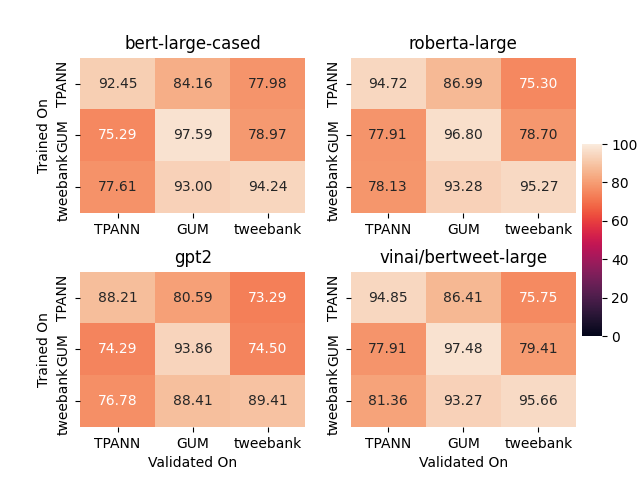
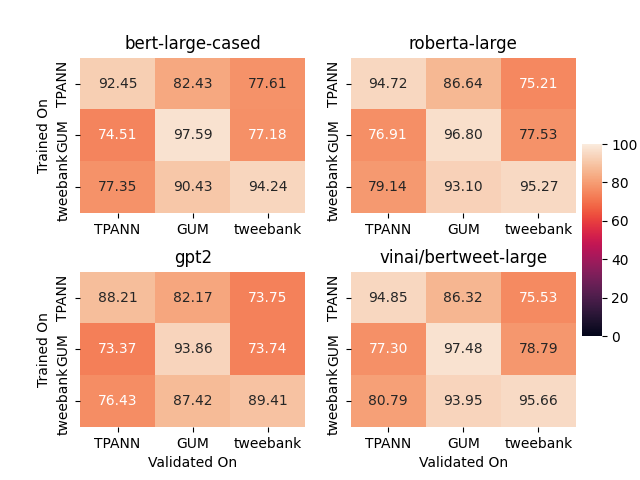
10 epoch results

diff --git a/plot_confusion_matrix.py b/plot_confusion_matrix.py
@@ -42,8 +42,8 @@ def main(results, path):
     print("Saved to " +  path)
 
 if __name__ == "__main__":
-    in_path = 'model_out.pkl'
-    # in_path = 'psuedolabel_out.pkl'
+    # in_path = 'model_out.pkl'
+    in_path = 'psuedolabel_out.pkl'
     with open(in_path, 'rb') as f:
         results = pickle.load(f)
     #results = {'bert-large-cased': {'TPANN': {'tweebank': 77.97622165191432, 'GUM': 84.1633648277964, 'TPANN': 92.44871235268441}, 'GUM': {'tweebank': 78.97135075682186, 'GUM': 97.59219750076197, 'TPANN': 75.29463116542995}, 'tweebank': {'tweebank': 94.23872623474571, 'GUM': 92.99603779335568, 'TPANN': 77.6080314273243}}, 'gpt2': {'TPANN': {'tweebank': 73.29143754909663, 'GUM': 80.58518744285279, 'TPANN': 88.21475338280227}, 'GUM': {'tweebank': 74.49594134590207, 'GUM': 93.85553185004571, 'TPANN': 74.29070274989088}, 'tweebank': {'tweebank': 89.41084053417126, 'GUM': 88.40597378847912, 'TPANN': 76.77869925796595}}, 'vinai/bertweet-large': {'TPANN': {'tweebank': 75.74757789997382, 'GUM': 86.40658335873209, 'TPANN': 94.84941073766913}, 'GUM': {'tweebank': 79.40822204765645, 'GUM': 97.48247485522707, 'TPANN': 77.91357485814055}, 'tweebank': {'tweebank': 95.65854935847081, 'GUM': 93.27034440719292, 'TPANN': 81.36185072020952}}, 'roberta-large': {'TPANN': {'tweebank': 75.30243519245876, 'GUM': 86.98567509905517, 'TPANN': 94.7184635530336}, 'GUM': {'tweebank': 78.70123068866195, 'GUM': 96.7997561718988, 'TPANN': 77.91357485814055}, 'tweebank': {'tweebank': 95.26577638125163, 'GUM': 93.27644010972264, 'TPANN': 78.13182016586644}}}
